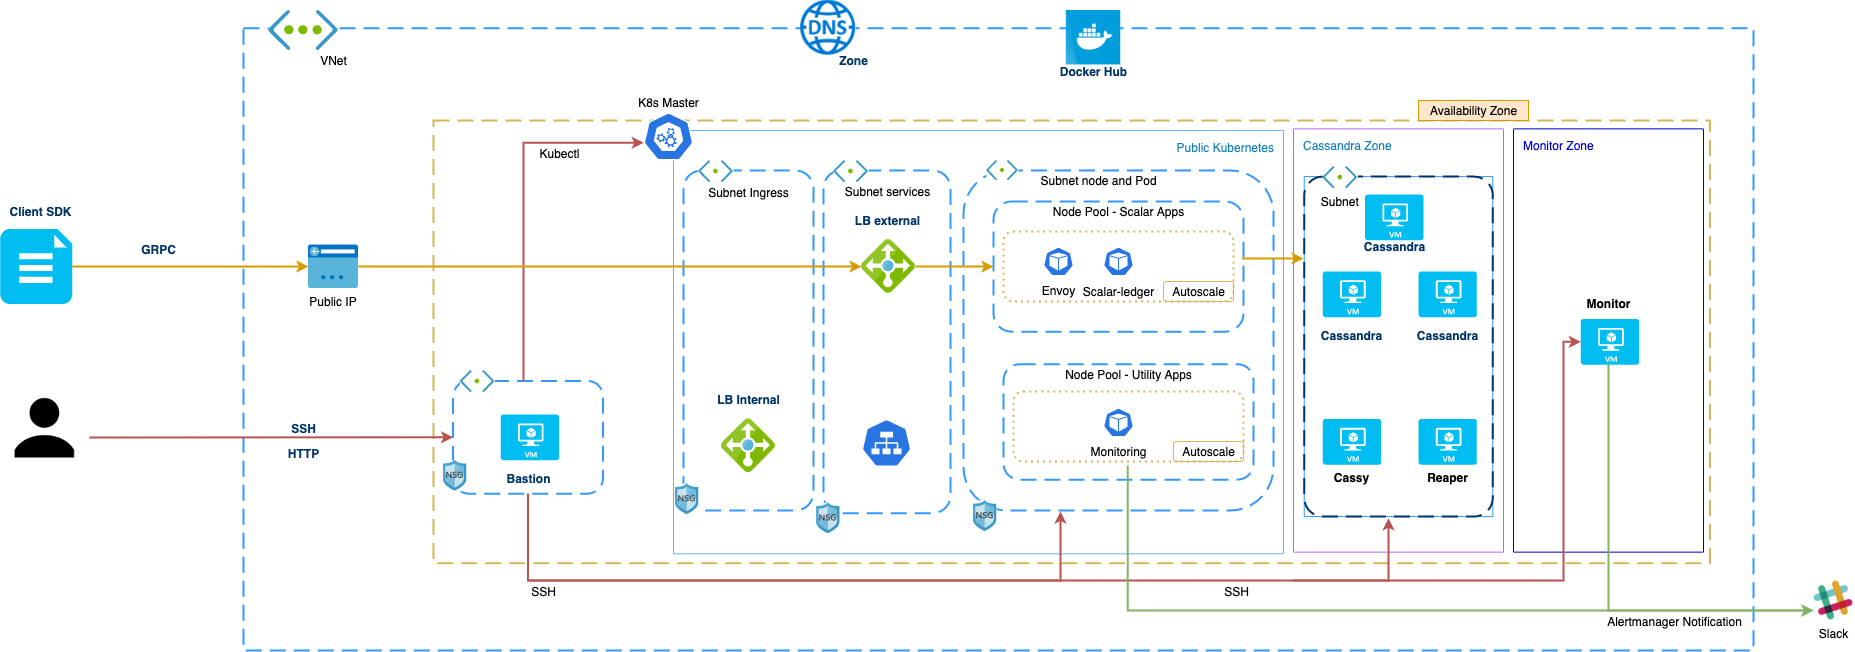
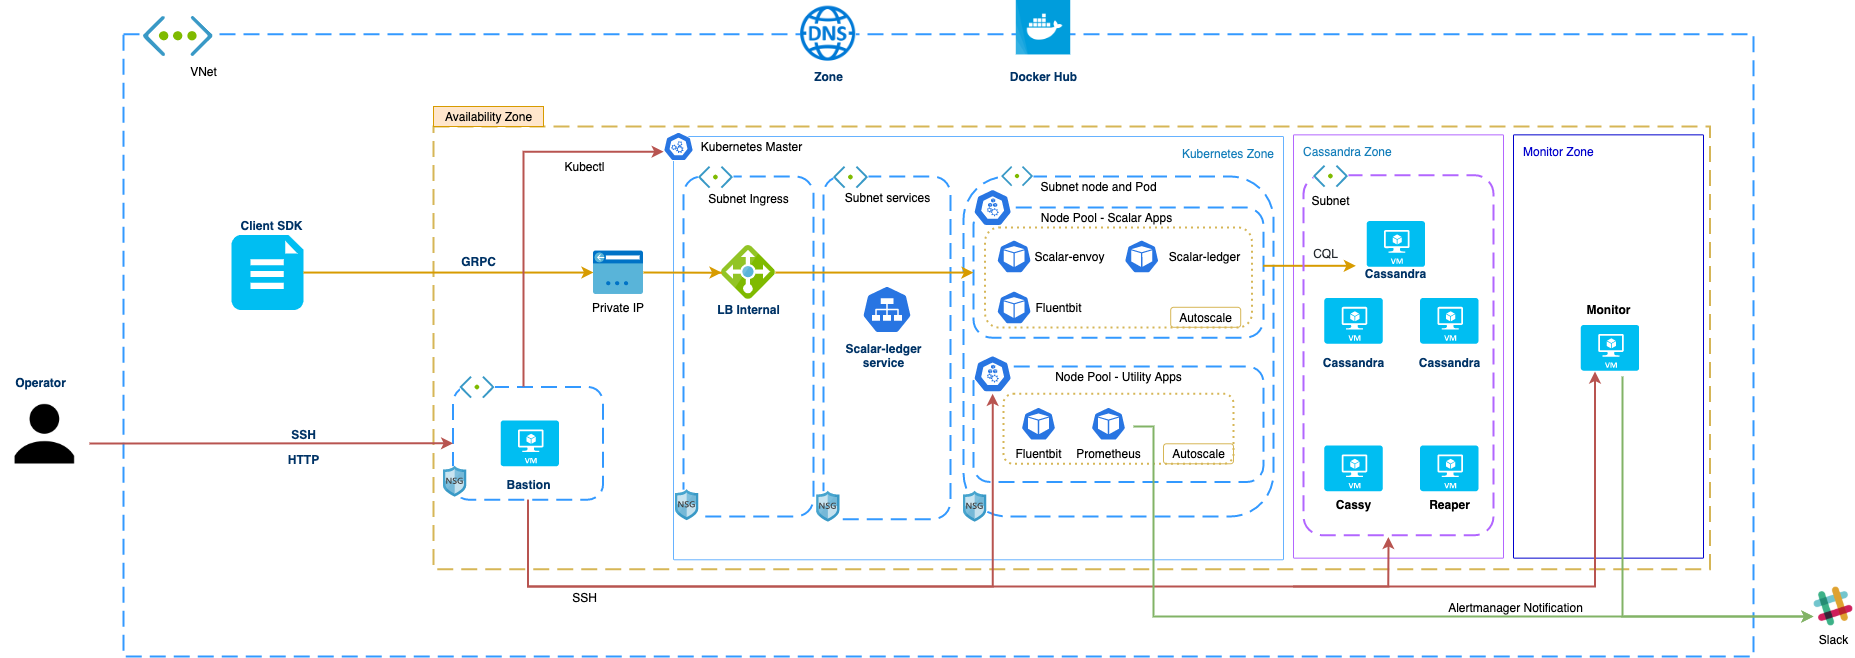
update schema

diff --git a/docs/ScalarDLonAzureAKS.md b/docs/ScalarDLonAzureAKS.md
@@ -20,7 +20,7 @@ This example will deploy a simple Scalar DL environment in the Japaneast region 
 * 3 Envoy Kubernetes Pods with a network load balancer (public)
 * 3 Scalar DL Kubernetes Pods
 * 1 Prometheus operator to collect metrics inside Kubernetes
-* 1 Pod on each node to collect Kubernetes log with fluentbit
+* 1 FluentBit Pod on each node to collect Kubernetes log
 * DNS Zone for internal host lookup
 * 3 Cassandra instances
 * 1 Cassy instance
